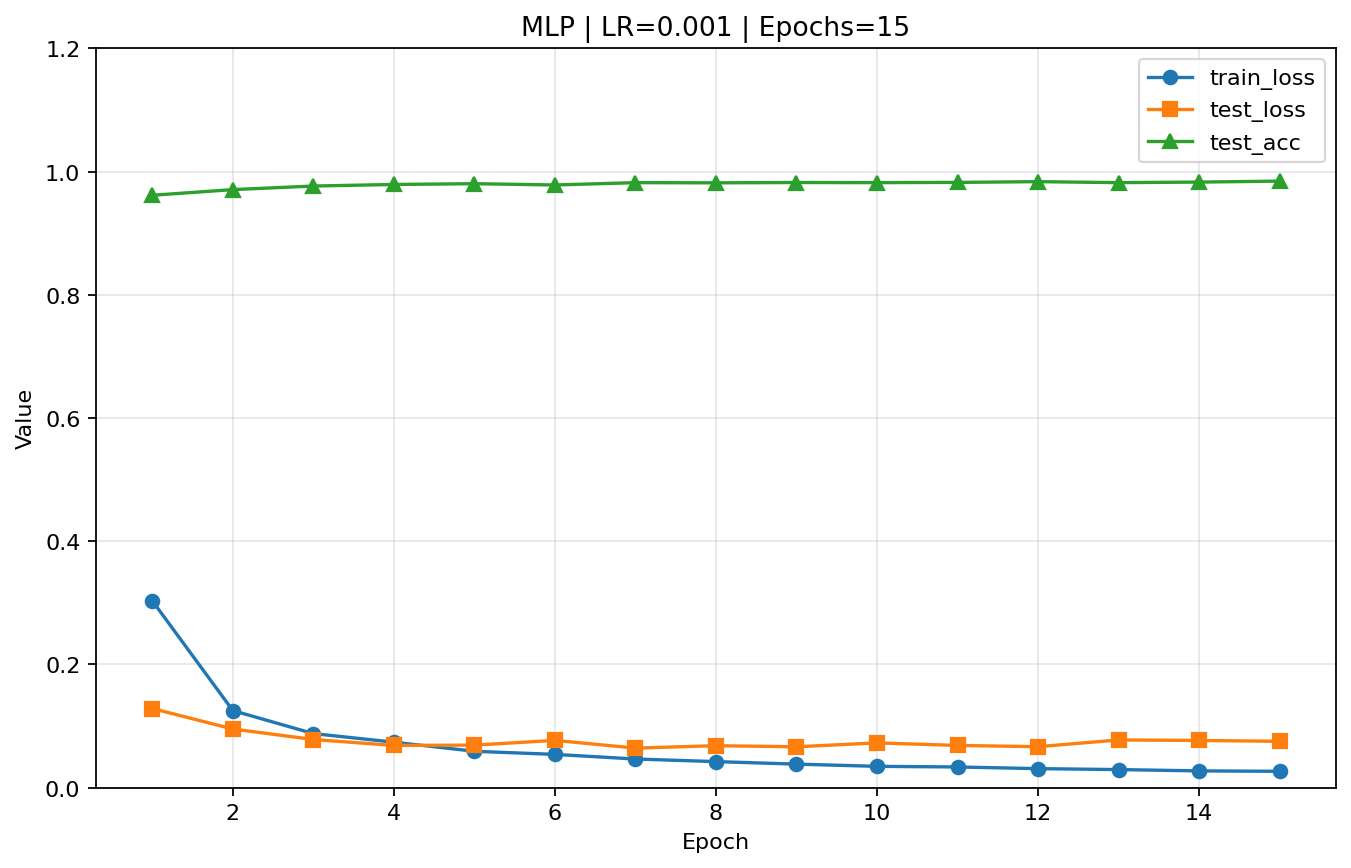
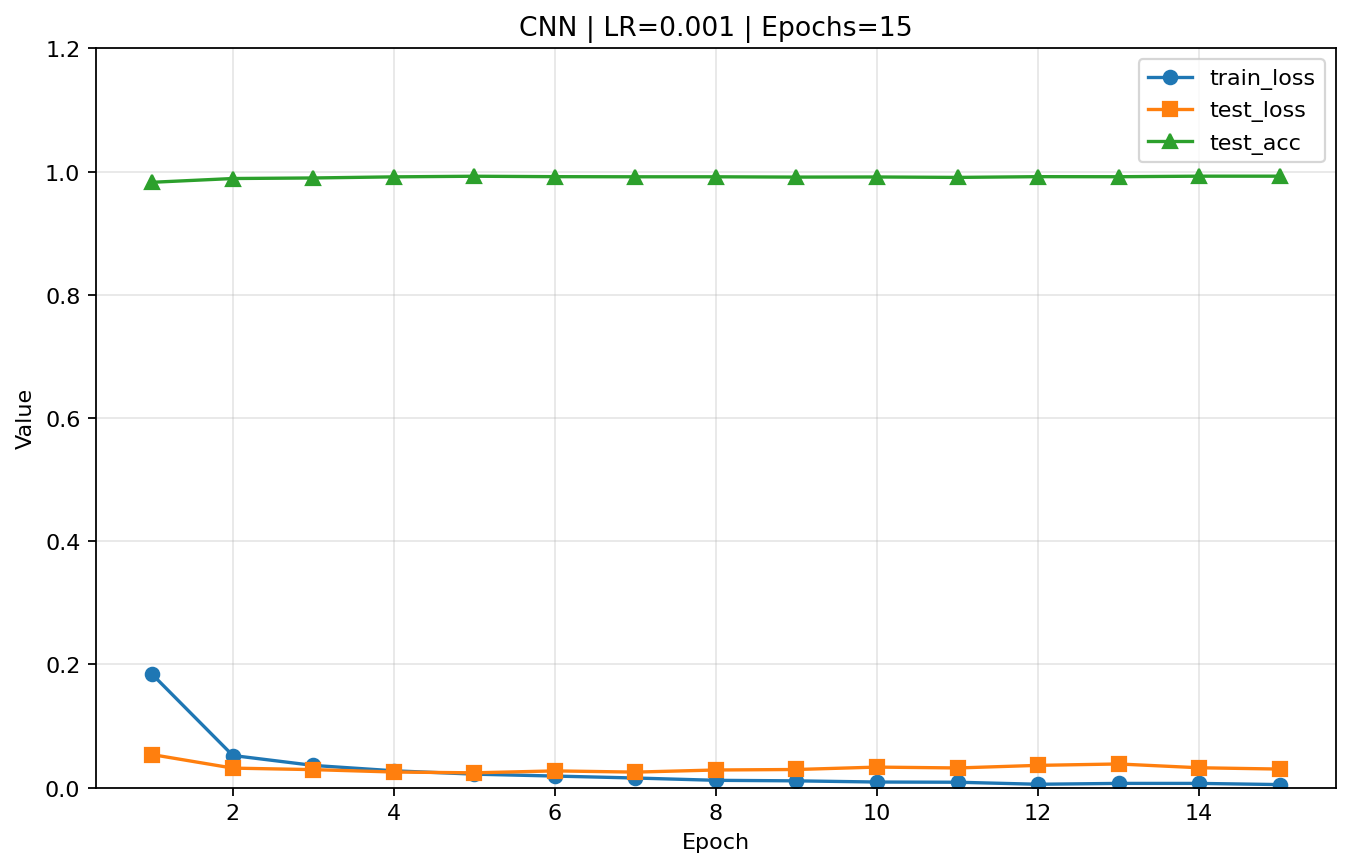
q

diff --git a/cnn.py b/cnn.py
@@ -34,7 +34,7 @@ CONFIG = {
     "seed": 42,
 
     # 选择要训练的模型： "mlp" 或 "cnn"
-    "model": "mlp",  # 切换为 "cnn" 训练CNN
+    "model": "cnn",  # 切换为 "cnn" 训练CNN
 
     # 训练相关参数（最优参数组合）
     "epochs": 15,     # 增加轮数确保收敛
